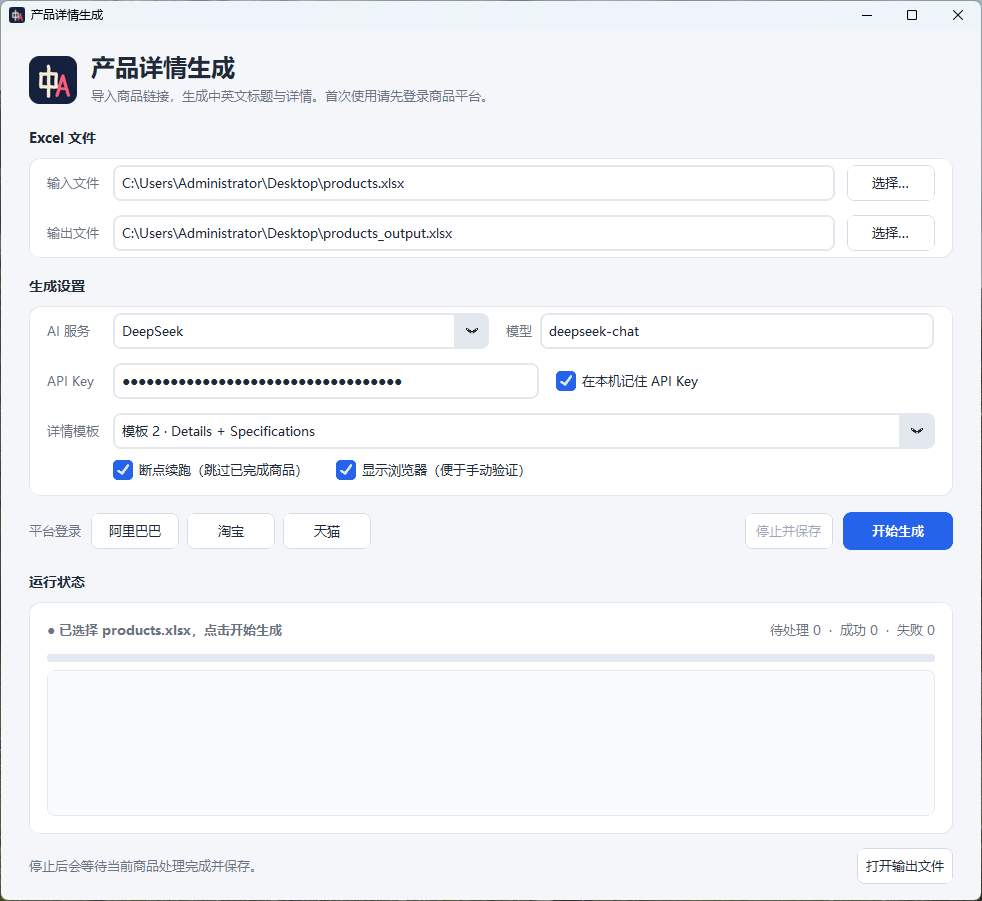
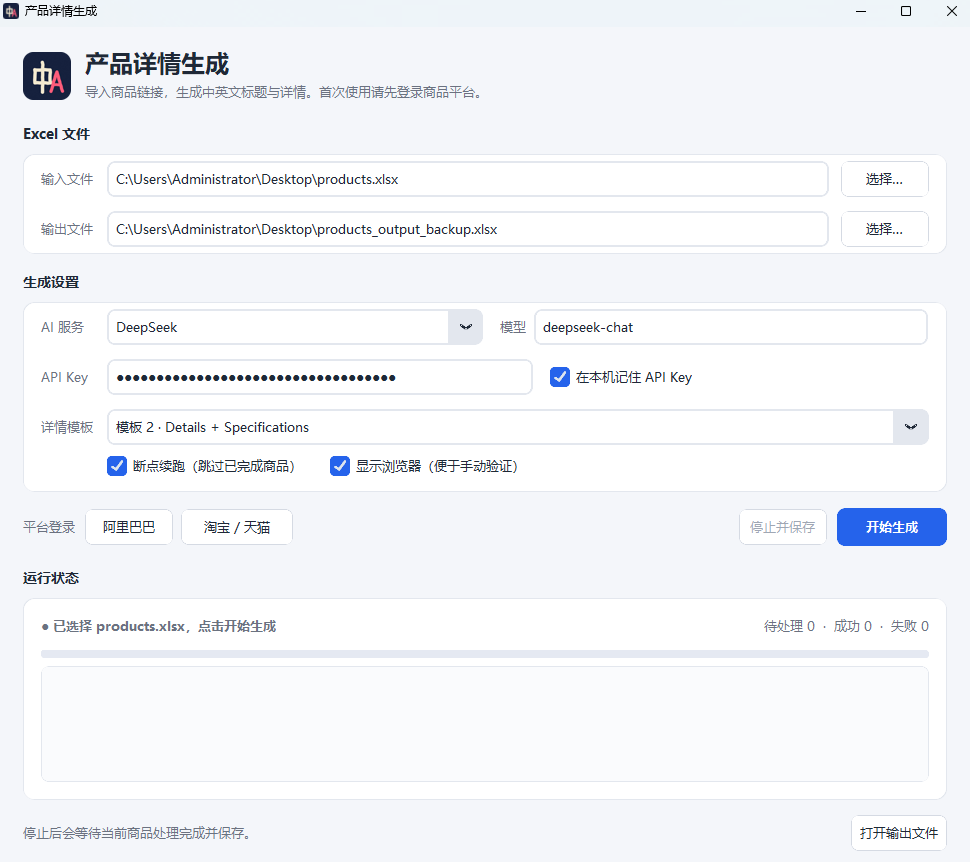
Update README

diff --git a/README.md b/README.md
@@ -1,38 +1,48 @@
-# 产品详情生成 · Product Details Generation
+<div align="center">
 
-批量采集商品信息，使用 AI 生成中英文标题与详情，并导出为 Excel。提供 Windows 桌面窗口和 Python 命令行入口。
+<img src="assets/logo.png" alt="产品详情生成 Logo" width="96" />
 
-采集层使用 **Scrapling**，窗口使用 **CustomTkinter**，支持 **DeepSeek** 和 **Gemini**。
+# 产品详情生成
+
+**Product Details Generation**
+
+从商品链接到中英文标题与详情，一份 Excel 批量完成。
+
+[![Release](https://img.shields.io/github/v/release/NothiZ/Product-Details-Generation-2.0?style=flat-square&color=2563eb)](https://github.com/NothiZ/Product-Details-Generation-2.0/releases/latest)
+![Windows](https://img.shields.io/badge/Windows-10%20%2F%2011-2563eb?style=flat-square)
+![Python](https://img.shields.io/badge/Python-3.12-3776ab?style=flat-square)
+[![License](https://img.shields.io/badge/License-GPL--3.0-64748b?style=flat-square)](LICENSE)
+
+**[下载 Windows 版](https://github.com/NothiZ/Product-Details-Generation-2.0/releases/latest)** · [快速开始](#快速开始) · [支持平台](#支持平台) · [源码运行](#源码运行) · [常见问题](#常见问题)
+
+无需安装 Python · 自带 Chromium · 支持 DeepSeek / Gemini
+
+</div>
+
+---
 
 ## 界面预览
 
 ![产品详情生成桌面窗口](assets/desktop-ui.png)
 
-## 功能与支持范围
+<p align="center"><sub>选择商品表格，配置 AI 服务，在窗口中查看进度与日志</sub></p>
 
-- 从 Excel 读取商品链接，批量采集价格、属性与详情。
-- 生成中文标题、英文标题、中文详情和英文详情，提供两种详情模板。
-- 采集与 AI 生成异步并行，浏览器会话按平台复用。
-- 支持平台登录、可见浏览器、进度日志、断点续跑及停止后保存。
+## 能做什么
 
 
-| 平台               | 商品信息采集         | 可选变体采集                 |
-| ------------------ | -------------------- | ---------------------------- |
-| Alibaba.com 国际站 | 支持                 | 支持颜色、尺寸及其他规格维度 |
-| 淘宝               | 支持价格、属性及详情 | 支持颜色分类、尺码及其他规格 |
-| 天猫               | 支持价格、属性及详情 | 支持颜色分类、鞋码及其他规格 |
+| 批量采集                 | 双语生成                 | 窗口操作             |
+| :----------------------- | :----------------------- | :------------------- |
+| 从 Excel 导入商品链接    | 生成中英文标题与详情     | 平台登录、进度与日志 |
+| 提取价格、属性与商品信息 | 两种详情模板可选         | 停止后保存、断点续跑 |
+| 采集颜色、尺寸及其他变体 | 标记指定词，方便人工检查 | 自动生成输出 Excel   |
 
-仅接受 `alibaba.com`、`taobao.com`、`tmall.com` 及其子域名下的完整 HTTP / HTTPS 商品链接。1688 和其他域名会被拒绝，批量任务会将对应商品计入失败，不进入浏览器采集或文案生成流程。淘宝与天猫仍然支持，不属于拒绝范围。
+采集层使用 **Scrapling**，窗口使用 **CustomTkinter**。采集与 AI 生成异步并行，浏览器会话按平台复用。
 
-不支持淘口令短链（如 `m.tb.cn`）和天猫国际（`tmall.hk`），请使用上述支持平台的商品详情页完整链接。
+## 快速开始
 
-商品页面、账号权限和验证流程可能影响采集结果。采集时请遵守平台服务条款和访问限制，仅处理你有权访问和使用的商品页面及数据。
+适用于 **Windows 10 / 11，64 位**。准备自己的 DeepSeek 或 Gemini API Key，并确保电脑能够联网。
 
-淘宝、天猫变体优先读取当前商品的页面内嵌 SKU 数据，并以购买面板选项兜底。采集包含未选中及页面列出的售罄选项，不代表每个组合当前都有库存；“鞋码”写入“尺寸”列。请先登录相应平台，商品确实无变体时对应列可以为空。
-
-## 下载与使用
-
-Windows 10 / 11，64 位。前往 [GitHub Releases](https://github.com/NothiZ/Product-Details-Generation-2.0/releases) 下载 `ProductDetailsDesktop-win-x64.zip`。
+前往 **[Releases 下载最新版](https://github.com/NothiZ/Product-Details-Generation-2.0/releases/latest)**，下载 `ProductDetailsDesktop-win-x64.zip`。
 
 1. **完整解压 ZIP**，打开 `ProductDetailsDesktop.exe`。请保留旁边的 `_internal` 文件夹。
 2. 在附带的 `输入模板.xlsx` 中填写商品链接，或选择自己的 `.xlsx` 文件。
@@ -45,9 +55,24 @@ Windows 10 / 11，64 位。前往 [GitHub Releases](https://github.com/NothiZ/Pr
 
 详细操作见 [桌面版使用说明](DESKTOP_USAGE.txt)。
 
-### Windows 安全提示
+> **完整解压后再运行。** EXE 旁边的 `_internal` 是必需的依赖目录，不能只复制 EXE。
 
-当前发布的 exe 未进行代码签名，下载或首次启动时可能出现 SmartScreen 信誉提示。请从本仓库 Releases 下载，并确认下载地址属于本仓库、版本符合预期；出现明确的恶意软件检测时应停止运行并反馈，不要关闭安全防护。相关机制见 [Microsoft SmartScreen 说明](https://learn.microsoft.com/windows/apps/package-and-deploy/smartscreen-reputation)。
+## 支持平台
+
+
+| 平台                   | 商品信息         | 可选变体                 |
+| :--------------------- | :--------------- | :----------------------- |
+| **Alibaba.com 国际站** | 价格、属性及详情 | 颜色、尺寸及其他规格     |
+| **淘宝**               | 价格、属性及详情 | 颜色分类、尺码及其他规格 |
+| **天猫**               | 价格、属性及详情 | 颜色分类、鞋码及其他规格 |
+
+接受 `alibaba.com`、`taobao.com`、`tmall.com` 及其子域名下的完整 HTTP / HTTPS 商品链接。
+
+**不支持 1688、淘口令短链（`m.tb.cn`）、天猫国际（`tmall.hk`）及其他域名。** 请使用支持平台的商品详情页完整链接；不支持的链接会记录失败原因，不进入采集或生成流程。
+
+淘宝、天猫变体优先读取当前商品的页面内嵌 SKU 数据，并以购买面板选项兜底。“鞋码”写入输出表的“尺寸”列。采集包含未选中和页面列出的售罄选项，**不代表所有组合当前都有库存**；无变体商品的对应列可以为空。
+
+商品页面、账号权限和验证流程可能影响采集结果。请遵守平台服务条款和访问限制，仅处理你有权访问和使用的商品页面及数据。
 
 ## Excel 格式与任务保存
 
@@ -60,13 +85,25 @@ Windows 10 / 11，64 位。前往 [GitHub Releases](https://github.com/NothiZ/Pr
 
 输出表包含以下结果列：
 
-`价格`、`AI中文标题`、`AI英文标题`、`AI中文详情`、`AI英文详情`、`颜色`、`尺寸`、`其他规格`、`需检查`、`失败原因`。
+
+| 内容       | 输出列                             |
+| :--------- | :--------------------------------- |
+| 商品信息   | `价格`、`颜色`、`尺寸`、`其他规格` |
+| 中文文案   | `AI中文标题`、`AI中文详情`         |
+| 英文文案   | `AI英文标题`、`AI英文详情`         |
+| 检查与处理 | `需检查`、`失败原因`               |
+
+
+| 详情模板   | 结构                                           |
+| :--------- | :--------------------------------------------- |
+| **模板 1** | Key: Value 列表                                |
+| **模板 2** | Details + Specifications，分为详情与规格两部分 |
 
 内容取舍由 prompt 负责，本地保留格式整理及按明确字段名过滤产地、型号等规则。每条商品只进行一次文案生成，不因指定词或空内容自动重写；接口连接异常的重试仍使用原有网络处理机制。
 
-“需检查”列只列出最终标题、详情中命中的词，如 OEM、ODM、批发、贴牌、平台名称、wholesale、logo customization、旗舰店和 LOGO。命中时保留原文、正常导出并计入成功，不触发重写，也不影响断点续跑；未命中时留空。可逐条人工修改，或筛选该列集中处理。
+**需检查**：列出文案中命中的指定词，例如 OEM、批发、平台名称和 LOGO。保留原文、正常导出并计入成功，不触发重写，也不影响续跑。可逐条修改，或筛选这一列集中处理；未命中时留空。
 
-“失败原因”仅记录真失败：链接不支持、采集失败、接口调用失败，或必要的中英文标题、详情缺失。失败行不计入成功，已有的部分文案会尽量保留供人工修改；下次续跑可补做。完整的已生成文案即使命中指定词，也会复用，只更新“需检查”提示。旧版仅因指定词记录的失败原因会在完整文案被载入时清除。
+**失败原因**：仅记录链接不支持、采集失败、接口调用失败，或必要的中英文标题、详情缺失等真失败。失败行会尽量保留已有的部分文案，下次续跑时可补做。完整文案即使命中指定词，也会复用，只更新“需检查”；旧版仅因指定词留下的失败标记会在完整文案载入时清除。
 
 成功和失败的结果都按原保存间隔落盘。“需检查”只覆盖指定词，不是语义审核结果，最终仍以人工审核为准。
 
@@ -76,7 +113,34 @@ Windows 10 / 11，64 位。前往 [GitHub Releases](https://github.com/NothiZ/Pr
 
 输入与输出不能使用同一个文件。生成内容请核对后再使用，尤其是价格、规格及 AI 生成的产品描述。
 
-## 从源码运行
+## 常见问题
+
+<details>
+<summary><strong>登录后仍然抓不到商品或变体，怎么办？</strong></summary>
+
+检查是否使用支持平台的商品详情页完整链接，并确认登录没有失效。保持“显示浏览器”勾选，按页面提示手动完成验证码或其他验证。
+
+部分商品没有变体，或受账号权限、页面结构及平台访问限制影响，仍可能采集失败。源码用户可以使用下方的单条商品检查命令排查。
+
+</details>
+
+<details>
+<summary><strong>为什么 ZIP 有几百 MB？</strong></summary>
+
+发布包包含 Python 运行时、依赖库、Patchright 驱动和 Chromium，因此其他电脑无需安装 Python 或浏览器。打包配置已排除未使用的 Playwright 驱动资源。
+
+</details>
+
+<details>
+<summary><strong>Windows 提示程序未签名，怎么办？</strong></summary>
+
+当前 EXE 未进行代码签名，下载或首次启动时可能出现 SmartScreen 信誉提示。请从本仓库 Releases 下载，并确认来源和版本；出现明确的恶意软件检测时，应停止运行并反馈，不要关闭安全防护。
+
+相关机制见 [Microsoft SmartScreen 说明](https://learn.microsoft.com/windows/apps/package-and-deploy/smartscreen-reputation)。
+
+</details>
+
+## 源码运行
 
 推荐在 Windows 64 位环境使用 **Python 3.12**，当前依赖至少需要 Python 3.11。在 PowerShell 中执行：
 
@@ -96,7 +160,8 @@ $env:PLAYWRIGHT_SKIP_BROWSER_GC = "1"
 
 源码仓库不包含生成后的 `输入模板.xlsx`。自行创建 `.xlsx` 文件，在第一行填写 `链接`、后续每行填写一个商品详情链接即可，无需先运行打包脚本。
 
-### 命令行批量生成
+<details>
+<summary><strong>命令行批量生成与环境变量</strong></summary>
 
 将 `.env.example` 复制为 `.env`，填写所选服务的 API Key：
 
@@ -110,24 +175,30 @@ Copy-Item .env.example .env
 
 ```powershell
 .\venv\Scripts\python.exe login.py alibaba
-# 淘宝和天猫统一使用 login.py taobao；旧命令 login.py tmall 仍兼容
+# 淘宝 / 天猫按需使用下面的统一入口
+.\venv\Scripts\python.exe login.py taobao
 .\venv\Scripts\python.exe run.py
 ```
 
-`DESC_TEMPLATE` 可选 `template1`（Key: Value 列表）或 `template2`（Details + Specifications）。`RESUME = True` 启用断点续跑。
+旧命令 `login.py tmall` 仍兼容。`DESC_TEMPLATE` 可选 `template1`（Key: Value 列表）或 `template2`（Details + Specifications），`RESUME = True` 启用断点续跑。
 
 命令行还可在 `.env` 或系统环境变量中配置：
 
 
-| 变量             | 作用                                    | 程序默认值                     |
-| ---------------- | --------------------------------------- | ------------------------------ |
-| `DEEPSEEK_MODEL` | DeepSeek 模型名称                       | `deepseek-chat`                |
-| `GEMINI_MODEL`   | Gemini 模型名称                         | `gemini-2.5-flash`             |
-| `LLM_RPM`        | AI 请求的每分钟限速，`0` 表示不主动限速 | DeepSeek 为`0`，Gemini 为 `10` |
+| 变量               | 作用                                    | 程序默认值                     |
+| ------------------ | --------------------------------------- | ------------------------------ |
+| `DEEPSEEK_API_KEY` | DeepSeek API Key                        | 自行填写                       |
+| `GEMINI_API_KEY`   | Gemini API Key                          | 自行填写                       |
+| `DEEPSEEK_MODEL`   | DeepSeek 模型名称                       | `deepseek-chat`                |
+| `GEMINI_MODEL`     | Gemini 模型名称                         | `gemini-2.5-flash`             |
+| `LLM_RPM`          | AI 请求的每分钟限速，`0` 表示不主动限速 | DeepSeek 为`0`，Gemini 为 `10` |
 
 Gemini 的 `10` 次/分钟是本程序的默认限速，不代表服务商向你的账号提供的额度；批量任务会因限速等待。请按账号实际限制调整，不要仅靠提高并发绕过额度。系统中已存在的同名环境变量优先于 `.env`；桌面版的模型以窗口设置为准，`LLM_RPM` 仍可通过环境变量设置。
 
-### 单条商品采集检查
+</details>
+
+<details>
+<summary><strong>单条商品采集检查</strong></summary>
 
 ```powershell
 .\venv\Scripts\python.exe check_product.py "商品详情页的完整链接"
@@ -135,7 +206,10 @@ Gemini 的 `10` 次/分钟是本程序的默认限速，不代表服务商向你
 
 此命令不调用 AI，也不修改批量输出表。结果默认保存至 `debug/product_check.json`，其中 `variant_dimensions` 为变体维度与全部选项，`variants` 为输出表使用的颜色、尺寸及其他规格。添加 `--headless` 可隐藏浏览器；需要手动验证时保持浏览器可见。
 
-## 打包 Windows 程序
+</details>
+
+<details>
+<summary><strong>打包 Windows 程序</strong></summary>
 
 在已创建虚拟环境的项目目录中执行：
 
@@ -160,7 +234,23 @@ dist/slim-ui/
 
 `build_desktop.ps1` 使用 **UTF-8 with BOM** 编码，兼容 Windows PowerShell 5.1；编辑后请保留该编码，避免中文模板生成失败。
 
+</details>
+
+<details>
+<summary><strong>运行回归测试</strong></summary>
+
+```powershell
+.\venv\Scripts\python.exe -B -m unittest discover -s tests -v
+```
+
+回归测试使用本地样本和模拟接口，不调用真实商品平台或 AI 服务。打包脚本的中文编码测试需要 Windows PowerShell。
+
+</details>
+
 ## 项目结构
+
+<details>
+<summary><strong>查看主要文件及用途</strong></summary>
 
 
 | 文件                                 | 用途                               |
@@ -178,31 +268,26 @@ dist/slim-ui/
 
 开发过程文档和历史源码校验快照已集中在 [docs/dev](docs/dev/README.md)，不参与程序运行。
 
-## 与 1.x 的简要对比
+</details>
+
+## 版本更新
+
+### [v2.0.1](https://github.com/NothiZ/Product-Details-Generation-2.0/releases/tag/v2.0.1)
+
+- 补齐淘宝、天猫变体采集，支持内嵌 SKU、购买面板及常见旧版选项列表。
+- 合并“淘宝 / 天猫”登录，统一命令行和桌面版的登录态目录。
+- 增加“需检查”提示，保留原文供人工编辑；真失败保留原因及可用的部分文案。
+- 改进加粗标签、中文冒号、空内容处理和商品域名校验。
+- 修复桌面发布包的离线浏览器自检兼容问题。
+
+完整发布包及说明见 [Releases](https://github.com/NothiZ/Product-Details-Generation-2.0/releases)。源码修改需重新打包后，才会包含在 EXE 中。
+
+<details>
+<summary><strong>与 1.x 的简要对比</strong></summary>
 
 1.x 以命令行脚本为主要使用方式；2.0 使用 Scrapling 采集层和可复用的异步浏览器会话，提供桌面窗口及 Windows 分发包。当前版本可在窗口选择两种详情模板、查看进度日志，并执行登录、断点续跑与停止保存。
 
-## 变更记录
-
-### 未发布
-
-- 合并“淘宝 / 天猫”登录按钮，命令行与窗口版统一保存、读取用户数据目录中的登录态。
-- 补齐淘宝、天猫的变体采集，支持当前购买面板、完整内嵌 SKU 及常见旧版选项列表。
-- 增加“需检查”词检测提示，不删词、不重写、不影响续跑；真失败保留原因及可用的部分文案，支持人工修改与续跑补做。
-- 内容筛选主要交给 prompt，本地保留格式整理、明确属性字段过滤及有效内容校验，减少正常词语误删。
-- 修复加粗标签、中文冒号和空内容处理，重复标题使用序号去重。
-- 按真实域名校验商品链接，拒绝 1688、未支持域名和伪装平台链接。
-- 补充文案、链接及批量失败处理测试，整理开发文档。
-
-已发布程序及对应说明见 [Releases](https://github.com/NothiZ/Product-Details-Generation-2.0/releases)。未发布的源码修改需重新打包后才会包含在 exe 中。
-
-## 测试
-
-```powershell
-.\venv\Scripts\python.exe -B -m unittest discover -s tests -v
-```
-
-回归测试使用本地样本和模拟接口，不调用真实商品平台或 AI 服务。打包脚本的中文编码测试需要 Windows PowerShell。
+</details>
 
 ## 本地数据与 API Key
 
